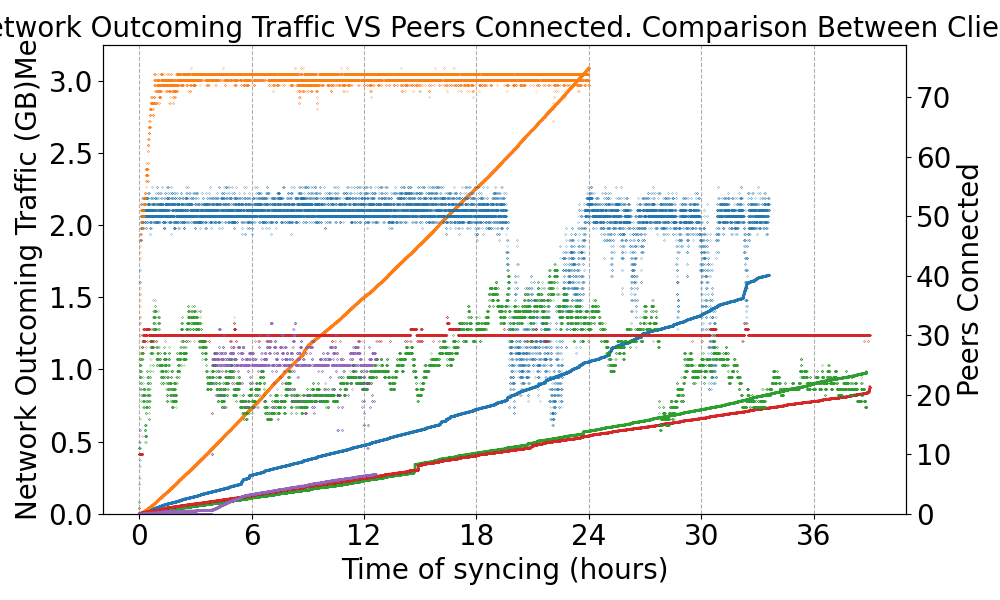
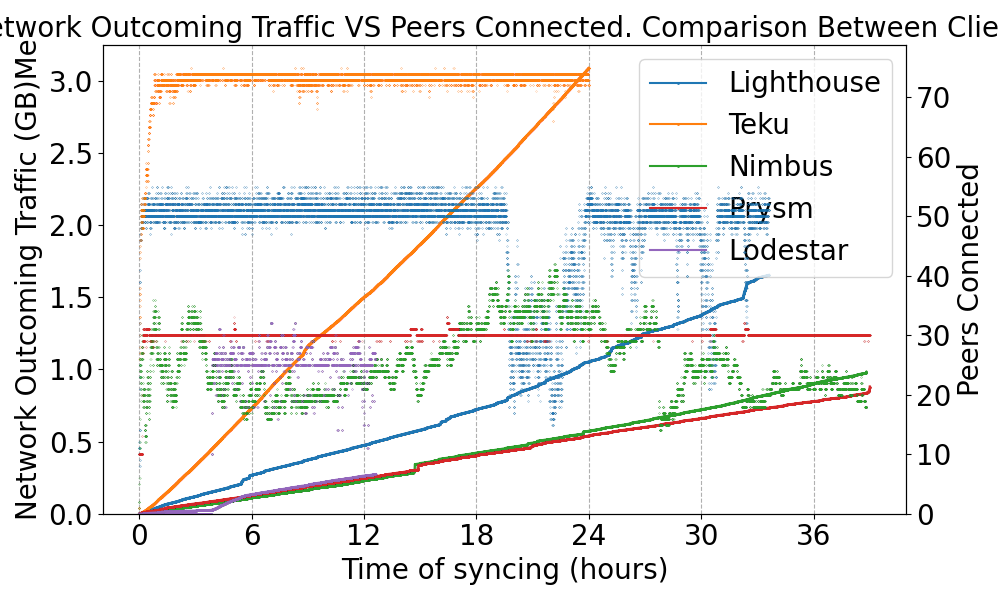
Update pics

diff --git a/ETH2-clients-comparison/scripts/plotting_scripts/plotMetrics.py b/ETH2-clients-comparison/scripts/plotting_scripts/plotMetrics.py
@@ -535,16 +535,16 @@ def plotCpuVS(clientName, pandaClientMetrics, xMetrics, yMetrics, xSync, ySync, 
     plt.savefig(figurePath)
     #plt.show()
     
-def plotAllClients(light1, teku1, nimbus1, prysm1, lodestar1, xMetrics, yMetrics, xSync, ySync, title, y1label, y2label, ncol, size):
+def plotAllClients(light1, teku1, nimbus1, prysm1, lodestar1, xMetrics, yMetrics, xSync, ySync, title, y1label, y2label, loc, size):
         
     outfile = '../../figures/metrics_plots/' + 'Clients' + yMetrics + '-' + ySync+ '.png'
     figurePath =  Path(__file__).parent / outfile
     
-    label1 = 'Lighthouse' + ' ' + yMetrics
-    label2 = 'Teku' +  ' ' + yMetrics
-    label3 = 'Nimbus' +  ' ' + yMetrics 
-    label4 = 'Prysm' +  ' ' + yMetrics 
-    label5 = 'Lodestar' +  ' ' + yMetrics 
+    label1 = 'Lighthouse'
+    label2 = 'Teku'
+    label3 = 'Nimbus' 
+    label4 = 'Prysm'
+    label5 = 'Lodestar' 
     
     fig = plt.figure(figsize=(10,6))
     ax1 = fig.add_subplot(111)
@@ -553,12 +553,6 @@ def plotAllClients(light1, teku1, nimbus1, prysm1, lodestar1, xMetrics, yMetrics
     nimbus1.plot(ax=ax1, x=xMetrics, y=yMetrics, marker='.', markersize=0.2, label=label3)
     prysm1.plot(ax=ax1, x=xMetrics, y=yMetrics, marker='.', markersize=0.2, label=label4)
     lodestar1.plot(ax=ax1, x=xMetrics, y=yMetrics, marker='.', markersize=0.2, label=label5)
-    
-    label1 = 'Lighthouse' + ' ' + ySync
-    label2 = 'Teku' +  ' ' + ySync
-    label3 = 'Nimbus' +  ' ' + ySync 
-    label4 = 'Prysm' +  ' ' + ySync 
-    label5 = 'Lodestar' +  ' ' + ySync 
     
     ax12 = ax1.twinx()
     light1.plot(ax=ax12, x=xSync, y=ySync, style='.', marker='.', markersize=0.1, label=label1)
@@ -571,8 +565,8 @@ def plotAllClients(light1, teku1, nimbus1, prysm1, lodestar1, xMetrics, yMetrics
     ax1.set_ylim(bottom=0)
     ax1.tick_params(axis='y', labelsize = size)
     ax1.tick_params(axis='x', labelsize = size)
-    ax1.get_legend().remove()
-    #l1 = ax1.legend(markerscale=10, loc=1, ncol=ncol, prop={'size':size})
+    #ax1.get_legend().remove()
+    l1 = ax1.legend(markerscale=10, loc=loc, ncol=1, prop={'size':size})
     
     ax12.set_ylabel(y2label, fontsize = size)
     ax12.set_ylim(bottom=0)
@@ -651,8 +645,8 @@ def plotAllClientsOnlySlot(light1, teku1, nimbus1, prysm1, lodestar1, sliceRange
     ax1.set_ylim(bottom=0)
     ax1.tick_params(axis='y', labelsize = size)
     ax1.tick_params(axis='x', labelsize = size)
-    ax1.get_legend().remove()
-    #l1 = ax1.legend(markerscale=10, loc=loc, ncol=1, prop={'size':size})
+    #ax1.get_legend().remove()
+    l1 = ax1.legend(markerscale=10, loc=loc, ncol=1, prop={'size':size})
     
     #ax1.legend(handles=[l1, l2], title='Legend', bbox_to_anchor=(1.05, 1), loc='upper left', prop={'size':size})
     #bbox_to_anchor=(1,0), loc="lower right"
